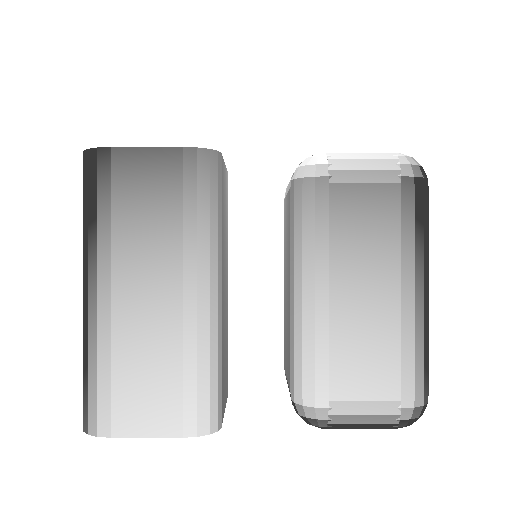
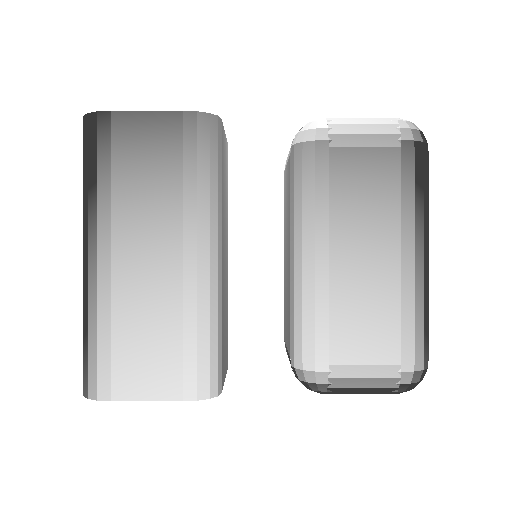
more refactor

diff --git a/src/bounding_box.rs b/src/bounding_box.rs
@@ -1,0 +1,81 @@
+pub struct BoundingBox {
+    pub x_min: f32,
+    pub x_max: f32,
+    pub y_min: f32,
+    pub y_max: f32,
+    pub z_min: f32,
+    pub z_max: f32,
+}
+
+impl BoundingBox {
+    pub fn new(mesh: &nom_stl::Mesh) -> BoundingBox {
+        let mut bounding_box = BoundingBox {
+            x_min: 0.0,
+            x_max: 0.0,
+            y_min: 0.0,
+            y_max: 0.0,
+            z_min: 0.0,
+            z_max: 0.0,
+        };
+
+        for triangle in mesh.triangles() {
+            for vertex in triangle.vertices().iter() {
+                let (x, y, z) = (vertex[0], vertex[1], vertex[2]);
+                if x < bounding_box.x_min {
+                    bounding_box.x_min = x;
+                }
+                if x > bounding_box.x_max {
+                    bounding_box.x_max = x;
+                }
+                if y < bounding_box.y_min {
+                    bounding_box.y_min = y;
+                }
+                if y > bounding_box.y_max {
+                    bounding_box.y_max = y;
+                }
+                if z < bounding_box.z_min {
+                    bounding_box.z_min = z;
+                }
+                if z > bounding_box.z_max {
+                    bounding_box.z_max = z;
+                }
+            }
+        }
+
+        bounding_box
+    }
+
+    pub fn dx(&self) -> f32 {
+        self.x_max - self.x_min
+    }
+
+    pub fn dy(&self) -> f32 {
+        self.y_max - self.y_min
+    }
+
+    pub fn dz(&self) -> f32 {
+        self.z_max - self.z_min
+    }
+
+    pub fn center(&self) -> cgmath::Point3<f32> {
+        let x = self.x_min + self.dx() / 2.0;
+        let y = self.y_min + self.dy() / 2.0;
+        let z = self.z_min + self.dz() / 2.0;
+        cgmath::Point3::new(x, y, z)
+    }
+
+    pub fn center_to_origin(&self) -> cgmath::Vector3<f32> {
+        let origin = cgmath::Point3::new(0.0, 0.0, 0.0);
+        origin - self.center()
+    }
+
+    // enum Axis {
+    //     X,
+    //     Y,
+    //     Z,
+    // }
+
+    // fn largest_bounding_box_cross_section(bounding_box: &BoundingBox) -> Axis {
+    //     let x_area =
+    // }
+}

diff --git a/src/main.rs b/src/main.rs
@@ -1,6 +1,7 @@
 mod bounding_box;
 mod graphics;
 
+use bounding_box::BoundingBox;
 use graphics::screenshot;
 use std::io::BufReader;
 
@@ -9,17 +10,14 @@ fn main() {
     let file = std::fs::File::open(&path).unwrap();
     let mut reader = BufReader::new(&file);
     let mesh = nom_stl::parse_stl(&mut reader).unwrap();
+    let bounding_box = BoundingBox::new(&mesh);
 
     let descrip = screenshot::ScreenshotDescriptor {
         mesh: &mesh,
         dst_path: "output.png",
         width: 512,
         height: 512,
-        model_translation: cgmath::Vector3 {
-            x: 0.0,
-            y: -5.0,
-            z: 0.0,
-        },
+        model_translation: bounding_box.center_to_origin(),
         point_light_position: cgmath::Point3 {
             x: 0.0,
             y: 25.0,
